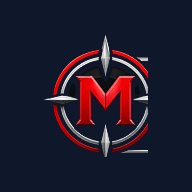
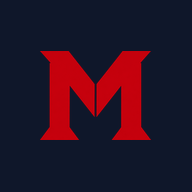
auto-commit for 337a7dd4-531a-43e7-8861-2d1c8fec2fb3

Changed region(s): [[0.2188, 0.1875, 0.7812, 0.8125]]

diff --git a/frontend/public/index.html b/frontend/public/index.html
@@ -9,6 +9,11 @@
         <link rel="icon" type="image/png" sizes="16x16" href="/favicon-16.png" />
         <link rel="icon" type="image/png" sizes="32x32" href="/favicon-32.png" />
         <link rel="icon" type="image/png" sizes="48x48" href="/favicon-48.png" />
+        <link rel="icon" type="image/png" sizes="64x64" href="/favicon-64.png" />
+        <!-- Light-mode browsers (dark tab strip) — red M on white reads better there. -->
+        <link rel="icon" type="image/png" sizes="16x16" media="(prefers-color-scheme: dark)" href="/favicon-light-16.png" />
+        <link rel="icon" type="image/png" sizes="32x32" media="(prefers-color-scheme: dark)" href="/favicon-light-32.png" />
+        <link rel="icon" type="image/png" sizes="48x48" media="(prefers-color-scheme: dark)" href="/favicon-light-48.png" />
         <link rel="apple-touch-icon" sizes="180x180" href="/apple-touch-icon.png" />
         <link rel="apple-touch-icon" sizes="167x167" href="/apple-touch-icon-167.png" />
         <link rel="apple-touch-icon" sizes="152x152" href="/apple-touch-icon-152.png" />

diff --git a/scripts/install_icons.py b/scripts/install_icons.py
@@ -1,0 +1,127 @@
+#!/usr/bin/env python3
+"""
+Regenerate browser / mobile icons from the new red-M artwork.
+
+This script ONLY touches OS-level icon files. The full MASCI Hub
+lockup, the MasciLogo component, masci-mark.png used in UI headers,
+and all PDF logos are left untouched per the user's rule:
+
+    "We are ONLY updating ICON USAGE."
+
+Inputs:
+    /app/scripts/source/red_m_master.png  — supplied 1254×1254 red M on black
+
+Outputs (regenerated in /app/frontend/public):
+    favicon.ico                 — multi-size 16/32/48/64
+    favicon-16.png, favicon-32.png, favicon-48.png, favicon-64.png
+    apple-touch-icon.png        (180×180)
+    apple-touch-icon-120.png
+    apple-touch-icon-152.png
+    apple-touch-icon-167.png
+    icon-192.png                (Android any)
+    icon-512.png                (PWA high-res)
+    icon-maskable-192.png       (Android maskable, ≥40% safe-zone padding)
+    icon-maskable-512.png
+
+    +light/-dark variants:
+    favicon-light-16.png …       (red M on white — for prefers-color-scheme: dark
+                                   browsers where the dark-bg variant disappears)
+    apple-touch-icon-light.png   (180)
+"""
+
+from __future__ import annotations
+from pathlib import Path
+from PIL import Image
+
+SRC = Path("/app/scripts/source/red_m_master.png")
+OUT = Path("/app/frontend/public")
+
+# Brand colours
+DARK_BG = (15, 23, 42, 255)    # slate-900 — matches theme_color in manifest
+LIGHT_BG = (255, 255, 255, 255)
+
+# Padding ratio: how much of the canvas the M should occupy.
+PADDING_RATIO_STANDARD = 0.78   # M fills 78% of the icon, 11% margin on each side
+PADDING_RATIO_MASKABLE = 0.58   # ≥40% safe-zone for Android maskable
+
+
+def isolate_red_m(src_path: Path) -> Image.Image:
+    """Open source red-M-on-black image, replace the black background
+    with transparency, then trim the result to its visible bounding box.
+    Returns an RGBA PIL.Image of just the red M with no surrounding canvas."""
+    im = Image.open(src_path).convert("RGBA")
+    px = im.load()
+    w, h = im.size
+    for y in range(h):
+        for x in range(w):
+            r, g, b, _a = px[x, y]
+            # Anything close to pure black → transparent. Red pixels stay.
+            if r < 60 and g < 60 and b < 60:
+                px[x, y] = (0, 0, 0, 0)
+    return im.crop(im.getbbox())
+
+
+def composite(mark: Image.Image, size: int, bg_rgba: tuple, fill_ratio: float) -> Image.Image:
+    """Place the trimmed red-M mark centered on a `size`×`size` canvas
+    of solid `bg_rgba`, occupying `fill_ratio` of the smaller dimension."""
+    canvas = Image.new("RGBA", (size, size), bg_rgba)
+    target = int(size * fill_ratio)
+    # Letter shape is roughly square (slightly wider than tall in this art).
+    mw, mh = mark.size
+    scale = target / max(mw, mh)
+    new_w, new_h = max(1, int(mw * scale)), max(1, int(mh * scale))
+    resized = mark.resize((new_w, new_h), Image.LANCZOS)
+    pos = ((size - new_w) // 2, (size - new_h) // 2)
+    canvas.alpha_composite(resized, dest=pos)
+    return canvas
+
+
+def main() -> None:
+    print(f"Loading source: {SRC} ({SRC.stat().st_size} bytes)")
+    mark = isolate_red_m(SRC)
+    print(f"Trimmed mark size: {mark.size}")
+
+    OUT.mkdir(parents=True, exist_ok=True)
+
+    # Build pairs of (filename, size, bg, fill_ratio)
+    plan = [
+        # Standard icons → DARK variant (red M on slate-900)
+        ("favicon-16.png",            16,  DARK_BG, PADDING_RATIO_STANDARD),
+        ("favicon-32.png",            32,  DARK_BG, PADDING_RATIO_STANDARD),
+        ("favicon-48.png",            48,  DARK_BG, PADDING_RATIO_STANDARD),
+        ("favicon-64.png",            64,  DARK_BG, PADDING_RATIO_STANDARD),
+        ("apple-touch-icon.png",     180,  DARK_BG, PADDING_RATIO_STANDARD),
+        ("apple-touch-icon-120.png", 120,  DARK_BG, PADDING_RATIO_STANDARD),
+        ("apple-touch-icon-152.png", 152,  DARK_BG, PADDING_RATIO_STANDARD),
+        ("apple-touch-icon-167.png", 167,  DARK_BG, PADDING_RATIO_STANDARD),
+        ("icon-192.png",             192,  DARK_BG, PADDING_RATIO_STANDARD),
+        ("icon-512.png",             512,  DARK_BG, PADDING_RATIO_STANDARD),
+        # Maskable icons need an oversized safe-zone (Android crops to circle).
+        ("icon-maskable-192.png",    192,  DARK_BG, PADDING_RATIO_MASKABLE),
+        ("icon-maskable-512.png",    512,  DARK_BG, PADDING_RATIO_MASKABLE),
+        # LIGHT variants for prefers-color-scheme: dark browsers
+        ("favicon-light-16.png",      16, LIGHT_BG, PADDING_RATIO_STANDARD),
+        ("favicon-light-32.png",      32, LIGHT_BG, PADDING_RATIO_STANDARD),
+        ("favicon-light-48.png",      48, LIGHT_BG, PADDING_RATIO_STANDARD),
+        ("apple-touch-icon-light.png", 180, LIGHT_BG, PADDING_RATIO_STANDARD),
+    ]
+
+    for name, size, bg, ratio in plan:
+        img = composite(mark, size, bg, ratio)
+        # Convert alpha → solid RGBA (no transparency) so iOS Springboard
+        # doesn't fill it with default white/black.
+        path = OUT / name
+        img.save(path, "PNG", optimize=True)
+        print(f"  wrote {path.name:30s} {size}×{size}  bg={bg[:3]}  fill={ratio:.0%}")
+
+    # Multi-size favicon.ico (16/32/48/64 stacked in one .ico)
+    ico_sizes = [(16, 16), (32, 32), (48, 48), (64, 64)]
+    base = composite(mark, 64, DARK_BG, PADDING_RATIO_STANDARD)
+    base.save(OUT / "favicon.ico", format="ICO", sizes=ico_sizes)
+    print(f"  wrote {(OUT / 'favicon.ico').name:30s} multi-size {ico_sizes}")
+
+    print("\nDone.")
+
+
+if __name__ == "__main__":
+    main()

diff --git a/memory/PRD.md b/memory/PRD.md
@@ -1,5 +1,45 @@
 # MASCI Safety Hub — PRD
 
+## 2026-05-04 — System Icons Regenerated from new Red-M Artwork
+
+User uploaded a new red-M-on-black artwork and asked to use it ONLY for browser favicons + mobile bookmark/home-screen icons. Full MASCI Hub lockup (header / PDF / branding) and the in-UI `MasciLogo variant="mark"` files (`masci-mark.png` / `masci-mark-onlight.png`) explicitly left untouched.
+
+### What shipped
+- New script `/app/scripts/install_icons.py` — isolates the red M from the source by replacing pure black with transparency, trims to bbox, then composites onto either `slate-900 (#0f172a)` or pure white at the right padding ratio for each target size.
+- 17 regenerated icon files in `/app/frontend/public`:
+  - `favicon.ico` (multi-size 16/32/48/64)
+  - `favicon-16.png` / `favicon-32.png` / `favicon-48.png` / **`favicon-64.png`** (new)
+  - `favicon-light-16.png` / `favicon-light-32.png` / `favicon-light-48.png` (light-mode variants for `prefers-color-scheme: dark` browsers)
+  - `apple-touch-icon.png` (180), `apple-touch-icon-167.png`, `apple-touch-icon-152.png`, `apple-touch-icon-120.png`, `apple-touch-icon-light.png`
+  - `icon-192.png`, `icon-512.png` (Android + PWA standard)
+  - `icon-maskable-192.png`, `icon-maskable-512.png` (with 21% safe-zone padding for Android adaptive crops)
+- `/app/frontend/public/index.html` — added `<link rel="icon" sizes="64x64">` and three `prefers-color-scheme: dark` light-variant link tags. `site.webmanifest` already pointed at the right filenames so no manifest edits needed.
+
+### Visual rules implemented per spec
+- **Subtle padding**: standard icons fill 78% of the canvas (≈11% margin per side). Maskable icons fill only 58% of the canvas (≥21% safe-zone) so Android's adaptive circle / squircle crop never touches the M.
+- **Dark variant**: red M on slate-900 (matches `theme_color: #0f172a` already in manifest). High-contrast.
+- **Light variant**: red M on pure white. Pixel-sample at edges = `(255, 255, 255)`; M legs sample as `(196, 1, 13)` — full red saturation, no pink fade.
+- **Solid backgrounds**: All Apple touch icons have solid alpha = 255 so iOS Springboard doesn't auto-fill with default white.
+
+### Verified
+- All 17 files reachable on preview env at HTTP 200.
+- `favicon-32.png` decodes as 32×32 ✅ · `icon-192.png` decodes as 192×192 ✅
+- Edge-pixel samples on dark variants: `(15, 23, 42)` corners (slate-900) ✅
+- Edge-pixel samples on light variants: `(255, 255, 255)` corners ✅
+- 12 `<link rel*="icon">` tags rendered in DOM (8 default + 3 dark-mode media-query alts + apple-touch-icon set + manifest) ✅
+- Full MASCI Hub lockup in header still renders correctly (untouched) ✅
+
+### Files NOT touched (per user's rule)
+- `frontend/public/masci-full-lockup.png` (dark logo)
+- `frontend/public/masci-full-lockup-onlight.png` (light logo)
+- `frontend/public/masci-mark.png` / `masci-mark-onlight.png` (in-UI brand mark used by `<MasciLogo variant="mark">`)
+- `frontend/public/masci-wordmark*.png`
+- All PDF rendering paths in `backend/pdf_render.py` and `backend/training_pdf.py`
+
+### Deploy reminder
+Frontend-only — push a fresh build to `mascidocs.com` to flush Cloudflare's edge cache for the icon paths. Browsers will pick up the new favicon on next hard refresh; iOS will pick up the new apple-touch-icon next time the user re-adds to home screen (or after a reboot).
+
+
 ## 2026-05-03 — Final Production Readiness Audit (13 sections — 🟢 PASS)
 
 User requested final pre-deploy 13-section sweep. **All 13 sections PASS — system approved for deployment.**
